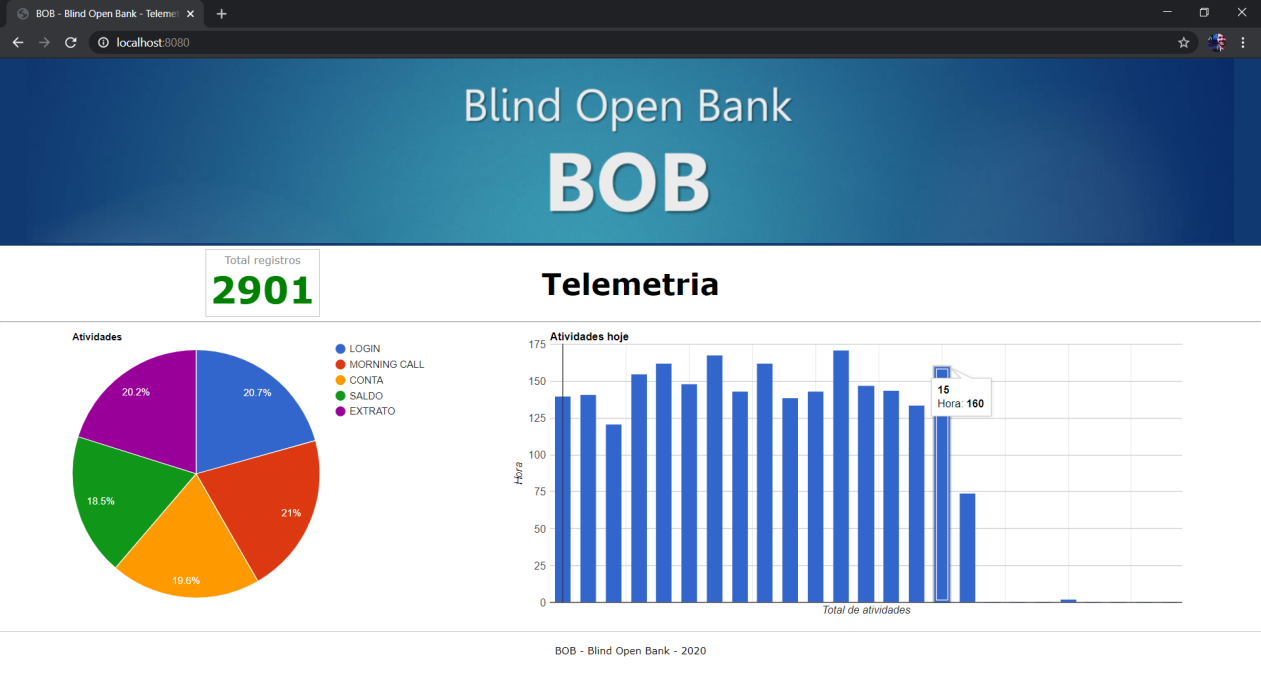
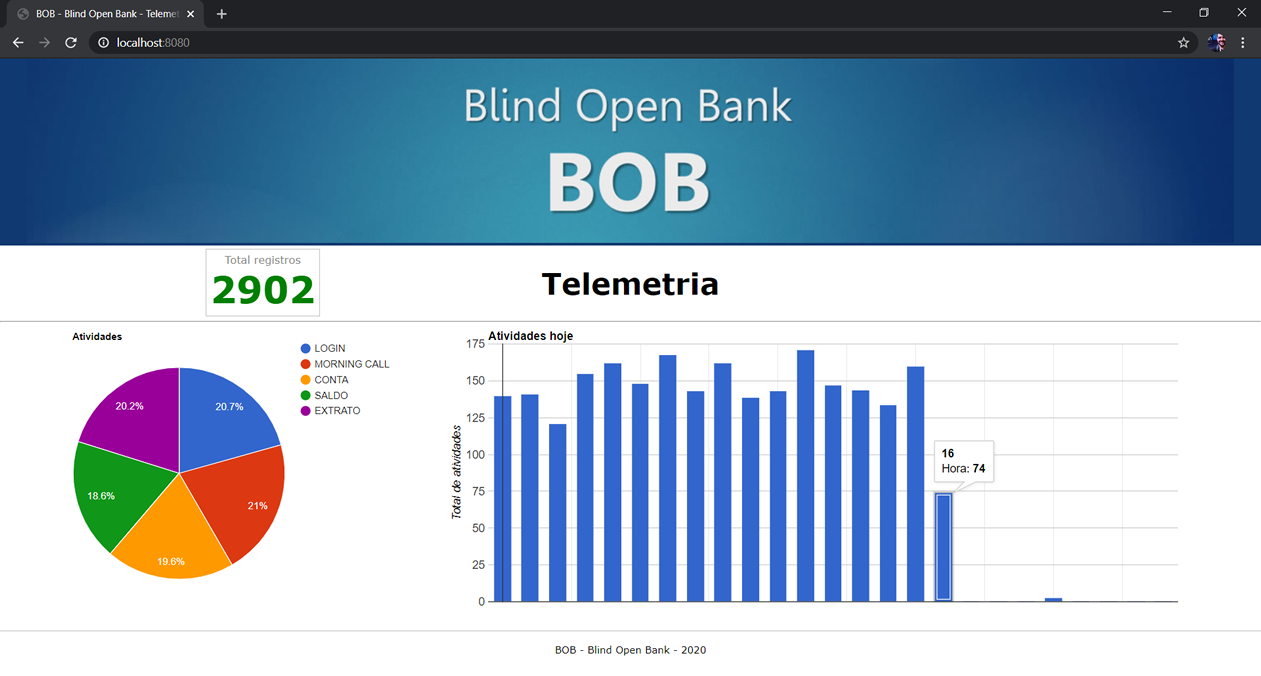
Atualização da tela

diff --git a/css/style.css b/css/style.css
@@ -61,13 +61,13 @@ div.content{
 }
 
 div#atividades-chart{
-    width: 35%;
+    width: 30%;
     display: inline-block;
     height: 350px;
 }
 
 div#horas-chart{
-    width: 55%;
+    width: 60%;
     display: inline-block;
     height: 350px;
 }
